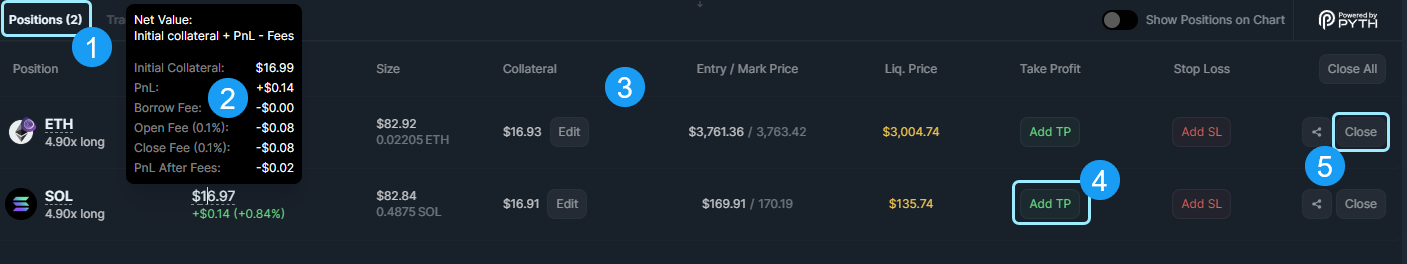
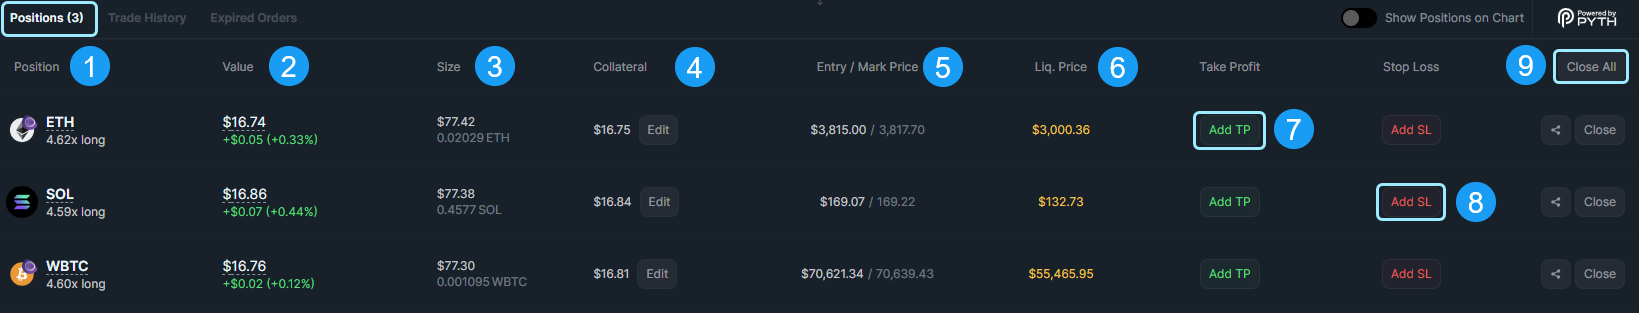
Wwg products (#358)
* Created new Products Structure.

* Moved audits into the products category

* Revert "Moved audits into the products category"

This reverts commit 06f50560508ee13eacae01a3eb1ba09277d0c4ed.

* Revert "Created new Products Structure."

This reverts commit a1e3926f9837d56d9363136c97344e27963997e2.

* replace perps-2 image

* edit perps-3 image

* Perps_overview_image&content update

---------

diff --git a/guides/4-perpetual-exchange/1-overview.md b/guides/4-perpetual-exchange/1-overview.md
@@ -19,32 +19,21 @@ The LP pool is also integrated into Jupiter to provide liquidity to the overall 
 5. **Long/Short Selector:** Choose whether you want to go 'Long' or 'Short' on the respective market.
 6. **Input Token Selector:** This is the input section where you can select any SPL tokens to use as collateral to enter a position.
 7. **Leverage Slider:** Here, users can increase their trading size with leverage ranging from 1.1x to a maximum of 100x.
-8. **Order Summary -** This section provides an order summary with all the information and stats calculated. (Please review and confirm your order before submitting the transaction).
+8. **Order Summary:** This section provides an order summary with all the information and stats calculated. (Please review and confirm your order before submitting the transaction).
 
 ---
 ## Positions Tab
 ![Perp3](../img/perps/perps-2.png)
 
 1. **Positions Tab:** The Positions tab is where you can view and manage all your current open positions.
-2. **Net Value Display:** By hovering over the number value of your position you can see the overall position details. This includes the fees being incurred by your trading actions, such as: opening, closing, and borrowing.
-3. **Collateral Management:** You can use the `Edit` Button to add or remove collateral to more closesly manage your positions.
-4. **Add TP / Add SL:** These buttons will allow you to set orders that will automatically execute upon reaching Take Profit or Stop Loss prices.
-5. **Close Order / Share:** This button allows you to immediately close the current position, securing gains or losses at the current market price.
-
-### Additional Descriptions
-
-|Item| Description|
-|---|---|
-|**Position**|Displays your current open position, including the market ticker, leverage level, and whether it's a long or short position.|
-|**Net Value**|Net value represents the current value of your position, accounting for fees. For example, it includes the initial collateral, PnL (Profit and Loss), borrow fees, and close fees.|
-|**Size**|Size indicates the current size of your order, factoring in the leverage level. For example, it's calculated as the initial collateral multiplied by the leverage level.|
-|**Collateral**|Collateral is the initial amount you provided when opening your long or short position.|
-|**Entry Price**|The entry price is the price at which you entered a new position.|
-|**Mark Price**|The mark price is the current market price.|
-|**Liq. Price**|The liquidation price is the threshold at which the mark price reaching this level triggers liquidation. This process is to repay any loan associated with opening the position.|
-|**Take Profit**|Take profit is the price set by the user. When the mark price hits this level, it will automatically close the position to lock in and realize gains.|
-|**Stop Loss**|Stop loss is the price set by the user. When the mark price reaches this level, it will automatically close the position to limit losses.|
-
+2. **Value Display:** Shows the value of the currently open positions. By hovering over the number value of your position you can see the overall position details. This includes the fees being incurred by your trading actions, such as: opening, closing, and borrowing.
+3. **Size:** Size indicates the current size of your positions factoring in the leverage as well. It's calculated as the initial collateral amount multiplied by the leverage level. 
+4. **Collateral:** This is the initial amount you provided when opening your long or short position. You can use the `Edit` Button to add or remove collateral to more closesly manage your positions.
+5. **Entry / Mark Price:** The entry price indicates the price at which the position was opened. The mark price indicates the current market price of the position asset.
+6. **Liquidation Price:** The liquidation price is the threshold at which the mark price reaching this level triggers liquidation. This process is to repay any loan associated with opening the position.
+7. **Take Profit:** Set up Take Profit order for your position. A take profit orders is a conditional sell order set by the user to close a position if it reaches a specified price  level. This is a common way to secure profits on a winning trade at pre-defined price levels. 
+8. **Stop Loss:** Set up a Stop Loss order for your position. A stop loss order is a conditional sell order set by the user to close a position if it reaches a specified price level. This is a common way to limit losses on trades.
+9. **Close Positions / Share:** Immediately close all positions or individually close positions, securing gains or losses at the current market price.
 
 ---
 ### Trade History Tab
@@ -52,18 +41,15 @@ The LP pool is also integrated into Jupiter to provide liquidity to the overall 
 
 The Trade History tab is where you can review all your past actions and activities that have occurred with your open positions and orders.
 
-|Item| Description|
-|---|---|
-|**Position**|This column represents your position where the action or event was triggered, along with the current market ticker and the timestamp of when it occurred.|
-|**Action**|In the Action column, you can see the specific action or event that occurred for the respective position.|
-|**Order Type**|This column indicates the type of order that occurred for the position. For example, it could be Market, Trigger, or Liquidation.|
-|**Deposit/Withdraw**|Here, you can find the amount that was either deposited into or withdrawn from the position.|
-|**Price**|The Price column displays the mark price at which the action or event occurred, triggering the action order.|
-|**Size**|This column reveals the size of the position that triggered the action or event.|
-|**PnL**|The PnL column shows the Profit and Loss associated with the position.|
-|**Txn**|In this column, you can find a transaction link to the action or event that took place on-chain.|
+1. **Position:** This column represents your position where the action or event was triggered, along with the current market ticker and the timestamp of when it occurred.
+2. **Action:** In the Action column, you can see the specific action or event that occurred for the respective position.
+3. **Order Type:** This column indicates the type of order that occurred for the position. For example, it could be Market, Trigger, or Liquidation.
+4. **Deposit / Withdraw:** Here, you can find the amount that was either deposited into or withdrawn from the position.
+5. **Price:** The Price column displays the mark price at which the action or event occurred, triggering the action order.
+6. **Size:** This column reveals the size of the position that triggered the action or event.
+7. **PNL:** The PnL column shows the Profit and Loss associated with the position.
+8. **Fee:** In this column, you can find a transaction link to the action or event that took place on-chain.
 
----
 
 
 
